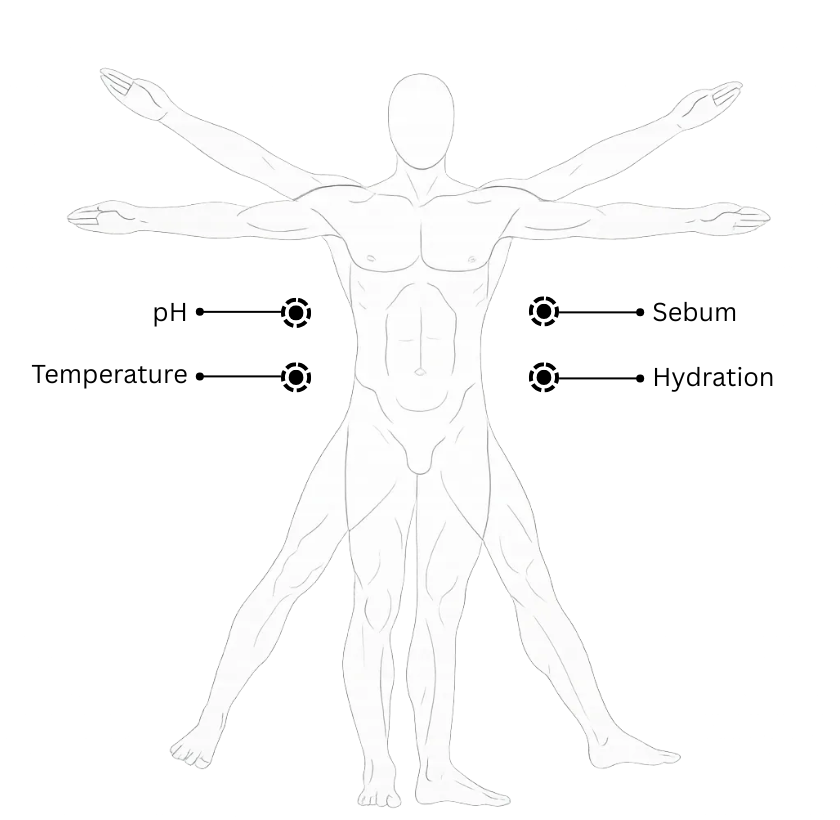
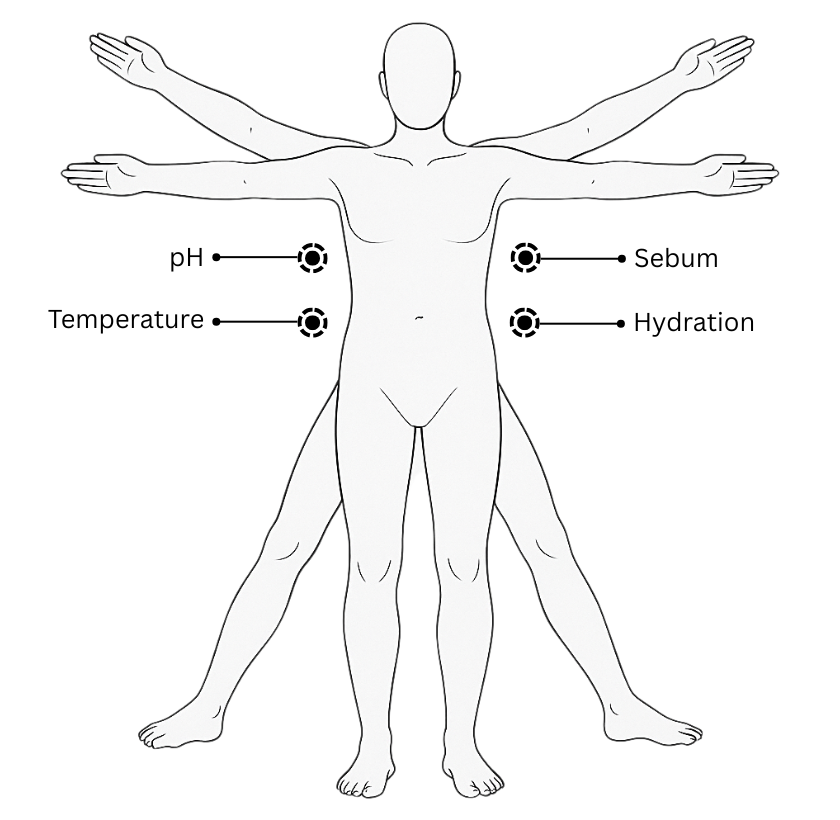
Add new images and enhance WaitlistForm and Pricing components for improved user experience
- Introduced new images: black_bottle.png and neutral_vitruvian.png, and updated the RawIngredients component to use the new black bottle image.
- Enhanced the WaitlistForm component by adding a Badge for "No Credit Card Required" and removing unnecessary background decorations for a cleaner look.
- Refactored the Pricing component to improve layout and added a value proposition for better clarity and engagement.

diff --git a/src/components/home/Solution.tsx b/src/components/home/Solution.tsx
@@ -1,7 +1,6 @@
 'use client';
 
-import { div } from 'framer-motion/client';
-import { GiHeartBeats, GiShieldReflect, GiRecycle } from 'react-icons/gi';
+import { GiHeartBeats, GiShieldReflect, GiTestTubes } from 'react-icons/gi';
 
 // Main content component for the solution/benefits section
 const SolutionContent = () => {
@@ -15,7 +14,7 @@ const SolutionContent = () => {
         
         {/* Value proposition with highlighting */}
         <p className="text-gray-600 text-xs md:text-lg lg:text-xl mb-6">
-          Unlock smarter scents, greater skin compatibility, and more consistent performance beyond what traditional perfumery can offer.
+          Molequles uses AI to analyze your skin and discover unique fragrance blends, crafting personalized perfumes tailored to your chemistry
         </p>        
       </div>
       
@@ -28,7 +27,7 @@ const SolutionContent = () => {
           </div>
           <h3 className="text-black text-lg font-semibold mb-3">Consistent Performance</h3>
           <p className="text-gray-600 text-sm">
-            Performs reliably throughout the day, maintaining its intended balance and longevity
+            Maintains balance and longevity throughout the day
           </p>
         </div>
         
@@ -39,18 +38,18 @@ const SolutionContent = () => {
           </div>
           <h3 className="text-black text-lg font-semibold mb-3">Reduced Allergy Risks</h3>
           <p className="text-gray-600 text-sm">
-            Experience fewer irritations by eliminating ingredients that trigger sensitivities
+            Reduces irritation by avoiding sensitive ingredients
           </p>
         </div>
         
         {/* Sustainability benefit card */}
         <div className="bg-amber-50/30 rounded-xl border border-gray-200 p-6 shadow-sm bg-[linear-gradient(#33333310_1px,transparent_1px),linear-gradient(90deg,#33333310_1px,transparent_1px)] bg-[size:16px_16px]">
           <div className="flex justify-center mb-4">
-            <GiRecycle className="h-6 w-6 text-black" />
+            <GiTestTubes className="h-6 w-6 text-black" />
           </div>
-          <h3 className="text-black text-lg font-semibold mb-3">Sustainability</h3>
+          <h3 className="text-black text-lg font-semibold mb-3">Personalized blends</h3>
           <p className="text-gray-600 text-sm">
-            Save time and money by avoiding endless experimentation through precise formulations
+            Creates a scent uniquely tailored to your skin
           </p>
         </div>
       </div>

diff --git a/src/components/forms/WaitlistForm.tsx b/src/components/forms/WaitlistForm.tsx
@@ -5,6 +5,7 @@ import { motion, AnimatePresence } from 'framer-motion';
 import { FiX, FiMail } from 'react-icons/fi';
 import { GiMolecule } from 'react-icons/gi';
 import Button from '@/components/ui/Button';
+import Badge from '@/components/ui/Badge';
 
 // Props interface for WaitlistForm component
 export interface WaitlistFormProps {
@@ -127,20 +128,17 @@ const WaitlistForm: FC<WaitlistFormProps> = ({ isOpen, onClose }) => {
               <FiX size={20} />
             </button>
             
-            <h2 className="text-xl sm:text-2xl lg:text-3xl font-bold mb-3 leading-tight">
-              <span className="text-black">
-                Join Our
-              </span>{' '}
-              <span className="text-black">Waitlist</span>
-            </h2>
+            <div className="flex justify-left mb-4">
+              <Badge 
+                text="No Credit Card Required" 
+                textSize="xs"
+                textColor="text-gray-600"
+              />
+            </div>
             
             <p className="text-sm sm:text-base text-gray-600 mb-5 leading-relaxed font-light border-l-2 border-gray-300 pl-3">
               Be among the first to experience our AI personalized perfume technology.
             </p>
-            
-            {/* Background decorations */}
-            <div className="absolute top-1/4 right-1/4 w-32 h-32 rounded-full bg-gray-100 blur-xl -z-10"></div>
-            <div className="absolute bottom-1/3 left-1/3 w-24 h-24 rounded-full bg-gray-100 blur-xl -z-10"></div>
             
             {/* Email submission form */}
             <form onSubmit={handleSubmit} className="space-y-4">
@@ -171,7 +169,6 @@ const WaitlistForm: FC<WaitlistFormProps> = ({ isOpen, onClose }) => {
                     >
                       Join Waitlist
                     </Button>
-                    <span className="text-xs text-gray-600 mt-2 text-center">Free Samples Available</span>
                   </div>
                 </>
               ) : (

diff --git a/src/components/home/Pricing.tsx b/src/components/home/Pricing.tsx
@@ -55,15 +55,8 @@ const PricingContent = () => {
   
   return (
     <div className="w-full">
-      {/* Section headline */}
-      <div className="text-center mx-auto mb-16 max-w-4xl">
-        <h2 className="text-lg md:text-3xl lg:text-4xl text-black leading-relaxed">
-          Start your journey into custom fragrances
-        </h2>
-      </div>
-      
       {/* Two-column pricing tier cards */}
-      <div className="grid md:grid-cols-2 gap-6 mt-10">
+      <div className="grid md:grid-cols-2 gap-6">
         {/* Mid-tier option */}
         <PricingCard
           title="Travel Size"
@@ -102,7 +95,19 @@ export default function Pricing() {
       aria-label="Pricing section" 
       className="relative py-12 md:py-16 lg:py-20 bg-white"
     >
-      <div className="container max-w-7xl mx-auto px-4 sm:px-6 lg:px-8">
+      <div className="container max-w-5xl mx-auto px-4 sm:px-6 lg:px-8">
+        {/* Section headline */}
+        <div className="max-w-4xl mx-auto mb-10 text-center">
+        <h2 className="text-xl md:text-3xl lg:text-4xl font-bold mb-4 leading-tight">
+          Start your journey into custom fragrances
+        </h2>
+        
+        {/* Value proposition with highlighting */}
+        <p className="text-gray-600 text-xs md:text-lg lg:text-xl mb-6">
+          Unlock smarter scents, greater skin compatibility, and more consistent performance beyond what traditional perfumery can offer.
+        </p>        
+      </div>
+        
         <PricingContent />
       </div>
     </section>

diff --git a/src/components/home/SkinChemistry.tsx b/src/components/home/SkinChemistry.tsx
@@ -46,8 +46,8 @@ export default function SkinChemistry() {
         <div className="mt-6 md:mt-8 lg:mt-10 mx-auto max-w-4xl">
           <div className="bg-amber-50/30 rounded-xl border p-4 md:p-6 border-gray-200 shadow-sm bg-[linear-gradient(#33333310_1px,transparent_1px),linear-gradient(90deg,#33333310_1px,transparent_1px)] bg-[size:16px_16px]">
             {/* Image with embedded skin factors */}
-            <div className="relative flex justify-center">
-              <div className="relative w-full max-w-md aspect-[5/5]">
+            <div className="max-w-lg mx-auto relative flex justify-center border border-gray-500">
+              <div className="relative w-full max-w-md aspect-[5/5] border border-gray-500 rounded-full">
                 <Image 
                   src="/images/vitruvian_man.png" 
                   alt="Skin chemistry measurement diagram"
@@ -62,7 +62,7 @@ export default function SkinChemistry() {
             <div className="text-center ">
               {getActiveFactorIndex() >= 0 && (
                 <>
-                  <p className="text-xs md:text-base text-gray-600 mt-3">
+                  <p className="text-xs md:text-base text-gray-600 mt-5">
                     {skinFactors[getActiveFactorIndex()].description}
                   </p>
                 </>

diff --git a/src/components/ui/Badge.tsx b/src/components/ui/Badge.tsx
@@ -2,13 +2,25 @@ import React from 'react';
 
 interface BadgeProps {
   text: string;
+  textSize?: 'xs' | 'sm' | 'base' | 'lg';
+  className?: string;
+  dotColor?: string;
+  bgColor?: string;
+  textColor?: string;
 }
 
-export default function Badge({ text }: BadgeProps) {
+export default function Badge({ 
+  text, 
+  textSize = 'sm', 
+  className = '',
+  dotColor = 'bg-black',
+  bgColor = 'bg-gray-50',
+  textColor = 'text-gray-700'
+}: BadgeProps) {
   return (
-    <div className="inline-flex items-center px-3 py-1 rounded-full bg-gray-50 border border-gray-200 shadow-sm">
-      <div className="w-2 h-2 rounded-full bg-black mr-2 animate-pulse"></div>
-      <span className="text-sm font-medium text-gray-700">{text}</span>
+    <div className={`inline-flex items-center px-3 py-1 rounded-full ${bgColor} border border-gray-200 shadow-sm ${className}`}>
+      <div className={`w-2 h-2 rounded-full ${dotColor} mr-2 animate-pulse`}></div>
+      <span className={`text-${textSize} font-medium ${textColor}`}>{text}</span>
     </div>
   );
 }

diff --git a/src/components/home/RawIngredients.tsx b/src/components/home/RawIngredients.tsx
@@ -39,7 +39,7 @@ export default function RawIngredients() {
           <div className="w-full md:w-1/2">
             <div className="relative w-full aspect-square max-w-sm mx-auto">
               <Image 
-                src="/images/perfume_bottle.png"
+                src="/images/black_bottle.png"
                 alt="Perfume Bottle"
                 fill
                 className="object-contain"
